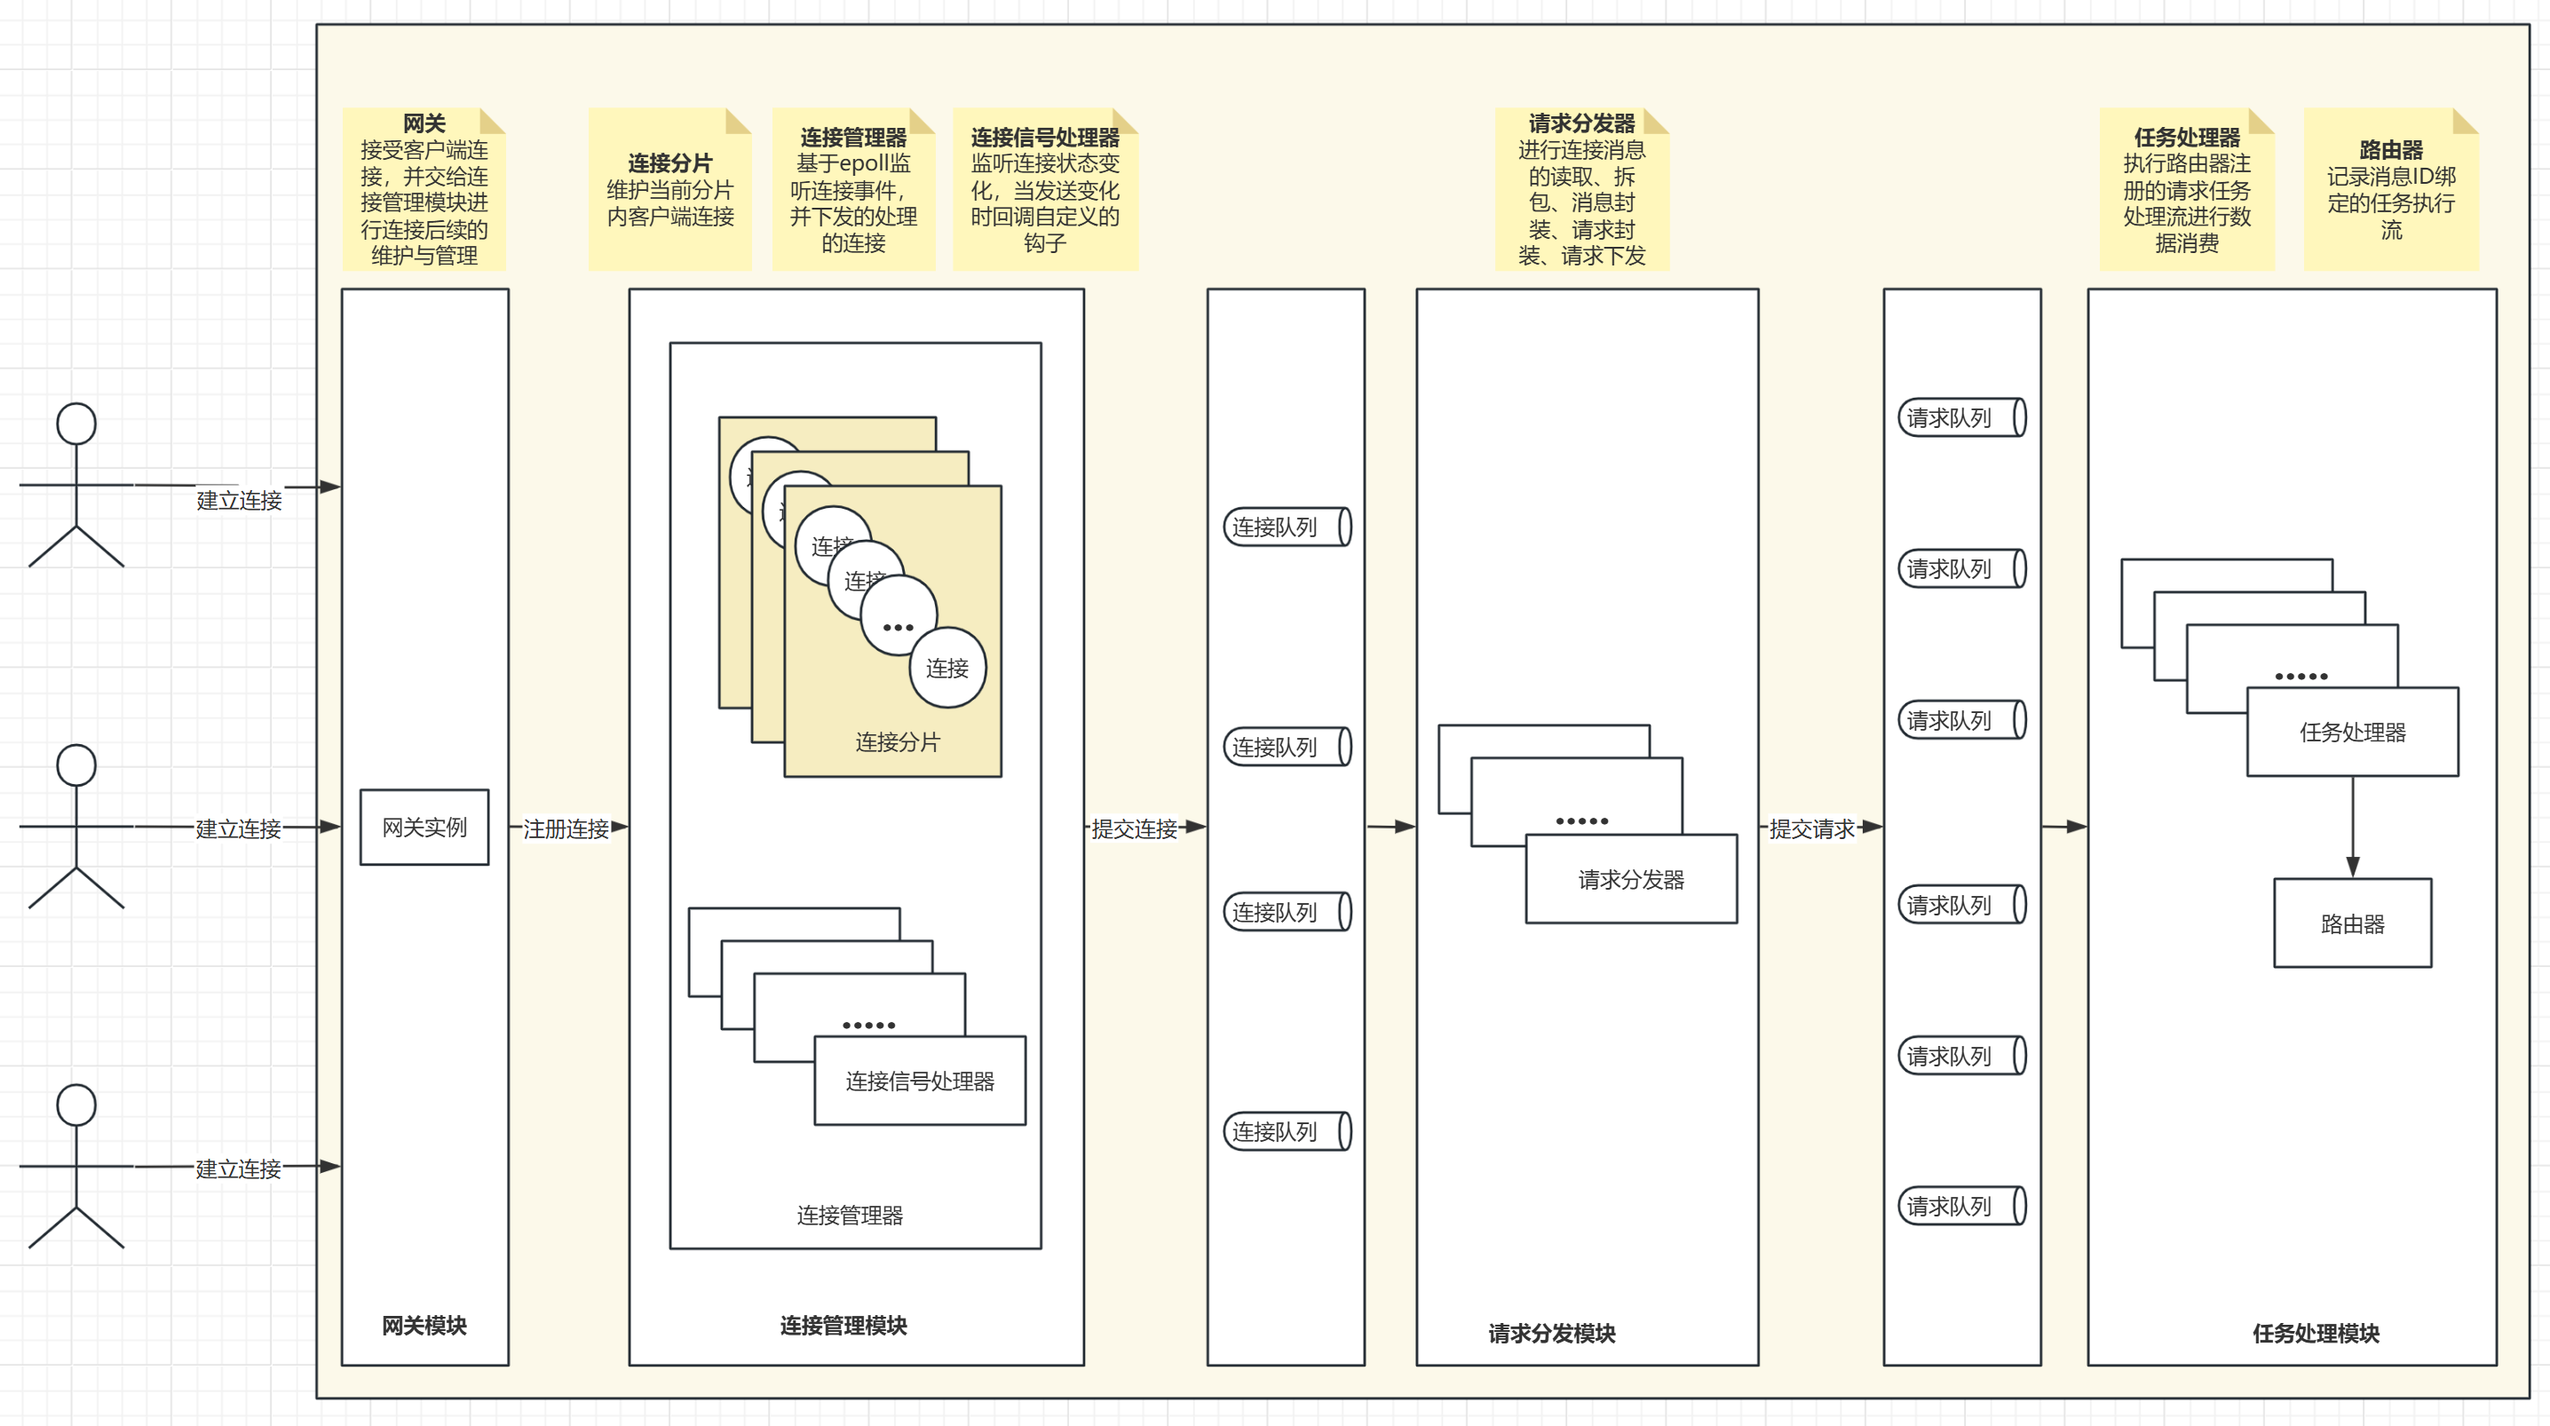
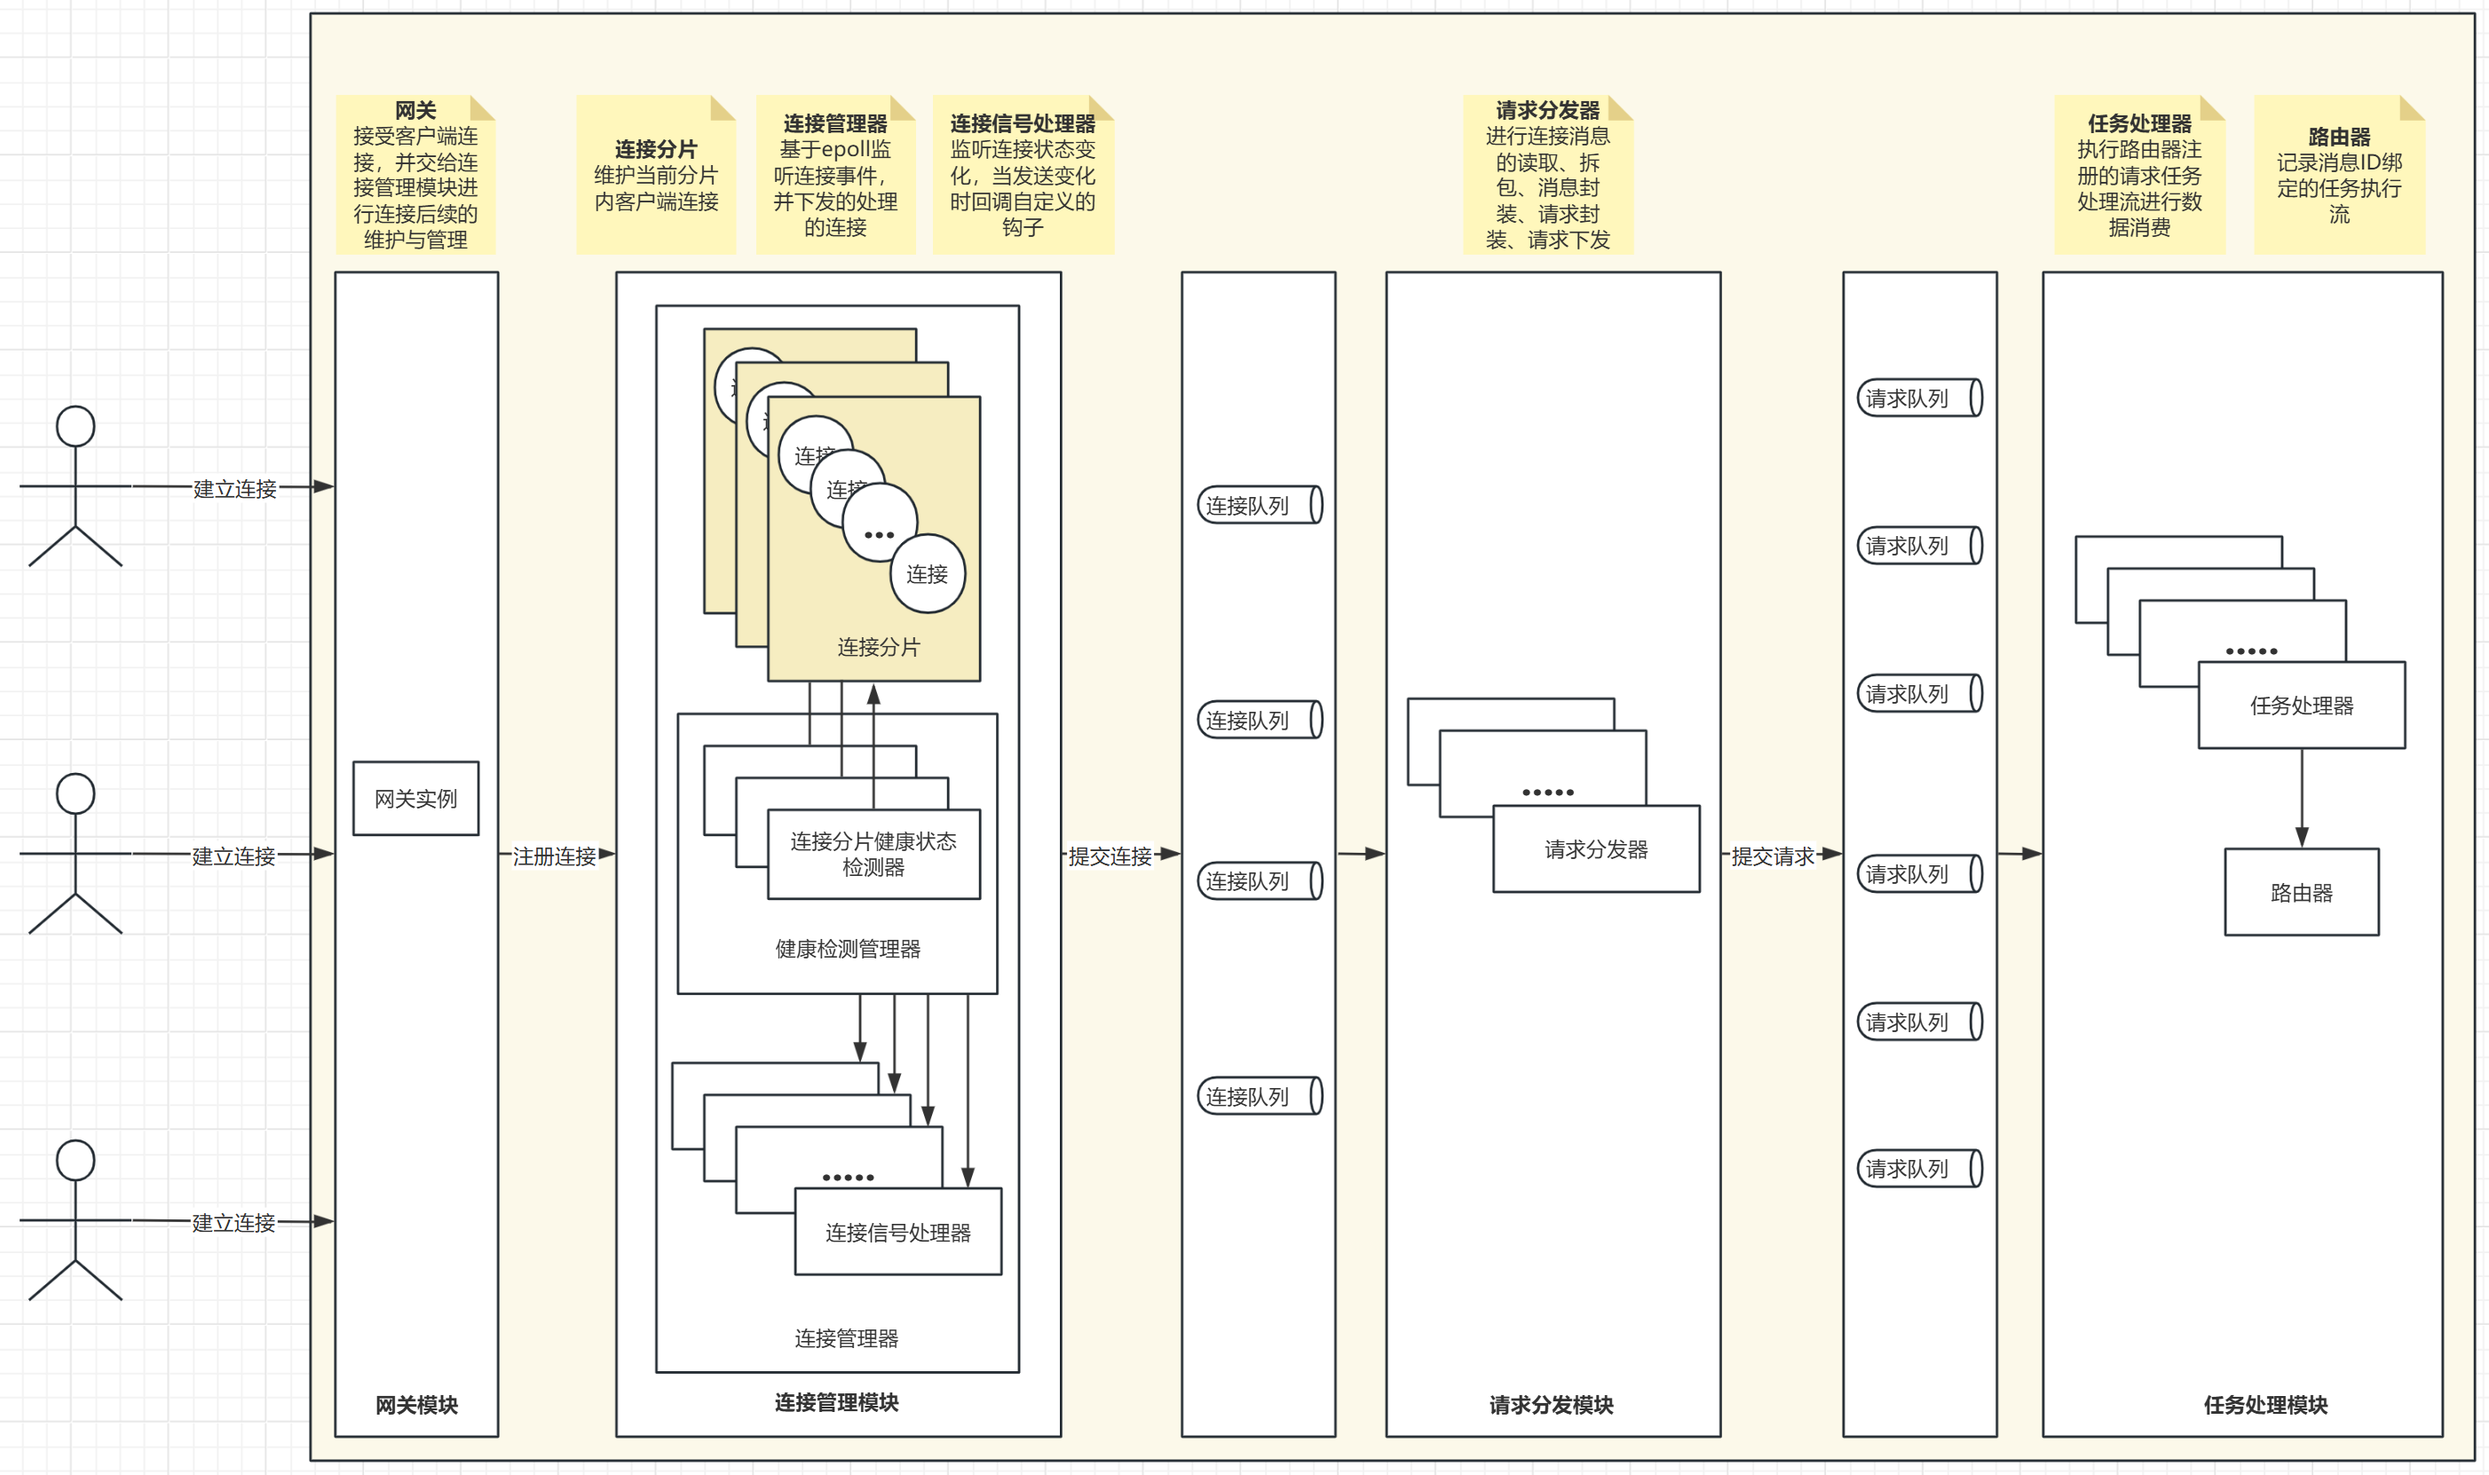
连接状态切换成非活跃状态时推送信号，完善架构图

diff --git a/gcore/keepalive_mgr.go b/gcore/keepalive_mgr.go
@@ -44,6 +44,7 @@ func (k *KeepAliveMgr) StartWorker(connShard *core.KVShard[int32, trait.Connecti
 			} else if conn.IsInspect() {
 				// 设置为非活跃状态
 				conn.SetState(constant.ConnNotActiveState)
+				k.connMgr.PushConnSignal(NewConnSignal(conn, constant.ConnNotActiveSignal))
 			}
 		})
 	}

diff --git a/gcore/conn_mgr.go b/gcore/conn_mgr.go
@@ -243,7 +243,7 @@ func (m *ConnMgr) StartConnSignalHookWorker(connSignalQueue <- chan trait.ConnSi
 		}
 	}
 }
-
+ 
 // OnConnStart 注册连接建立触发的钩子回调
 func (m *ConnMgr) OnConnStart(fn func(conn trait.Connection)) {
 	m.connStartHook = fn
